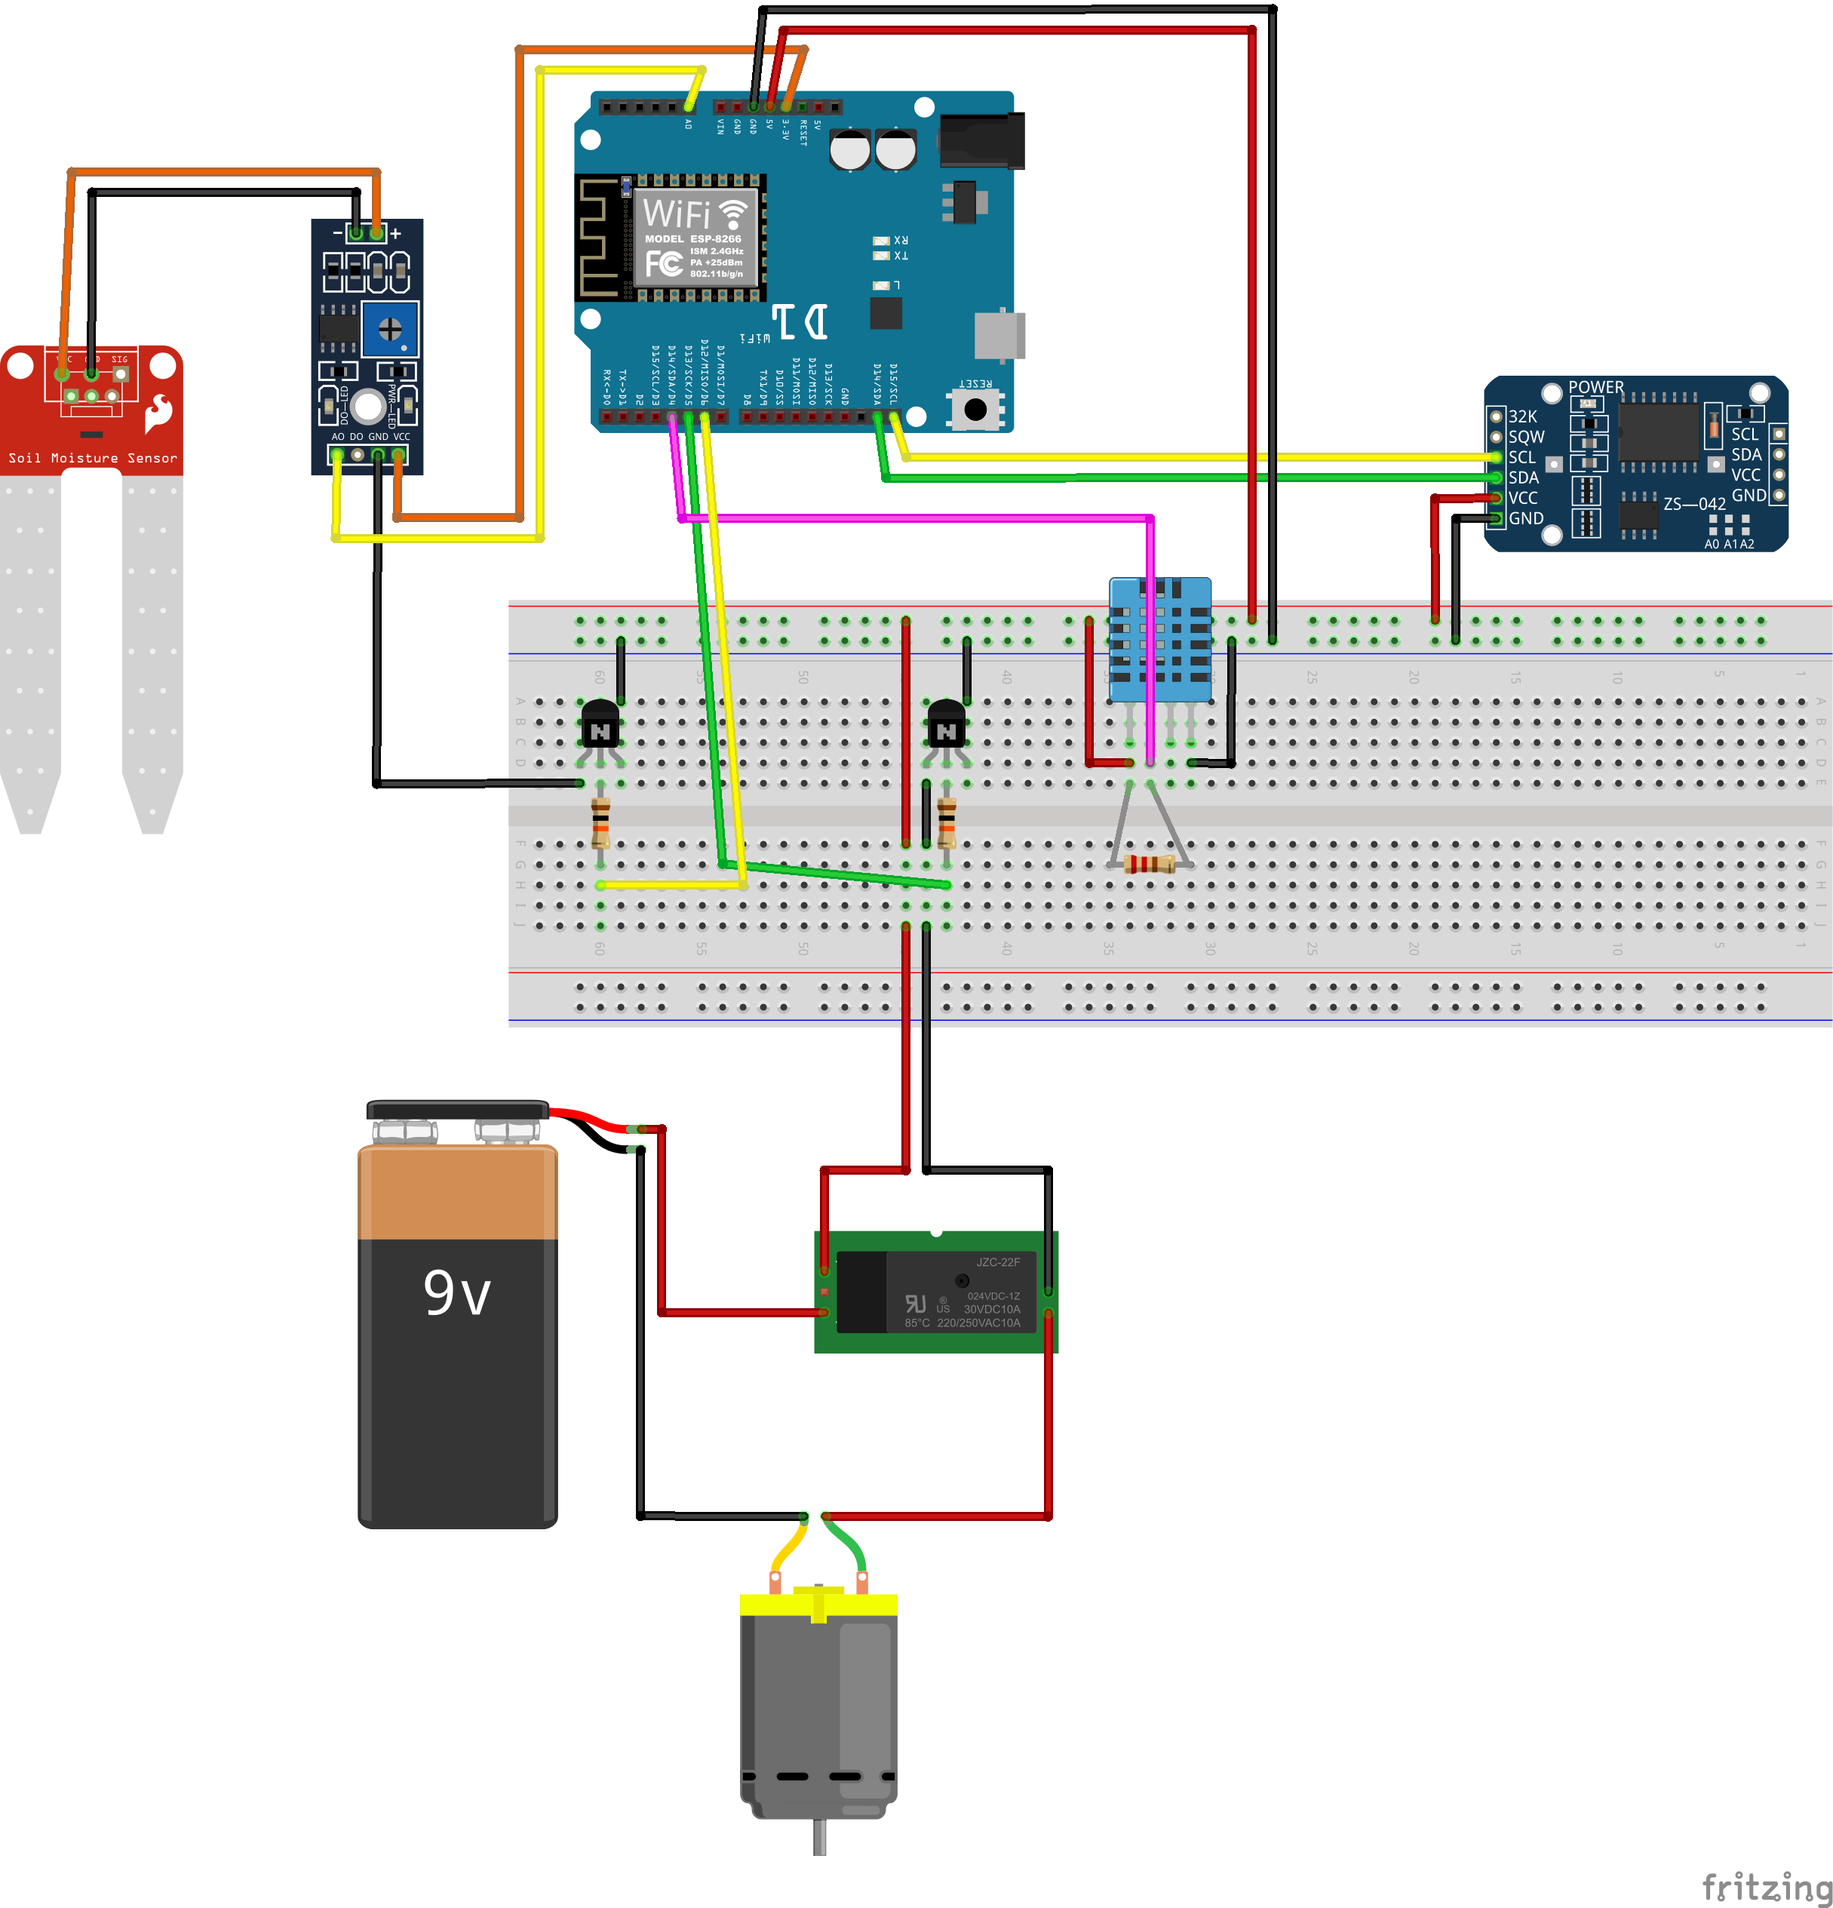
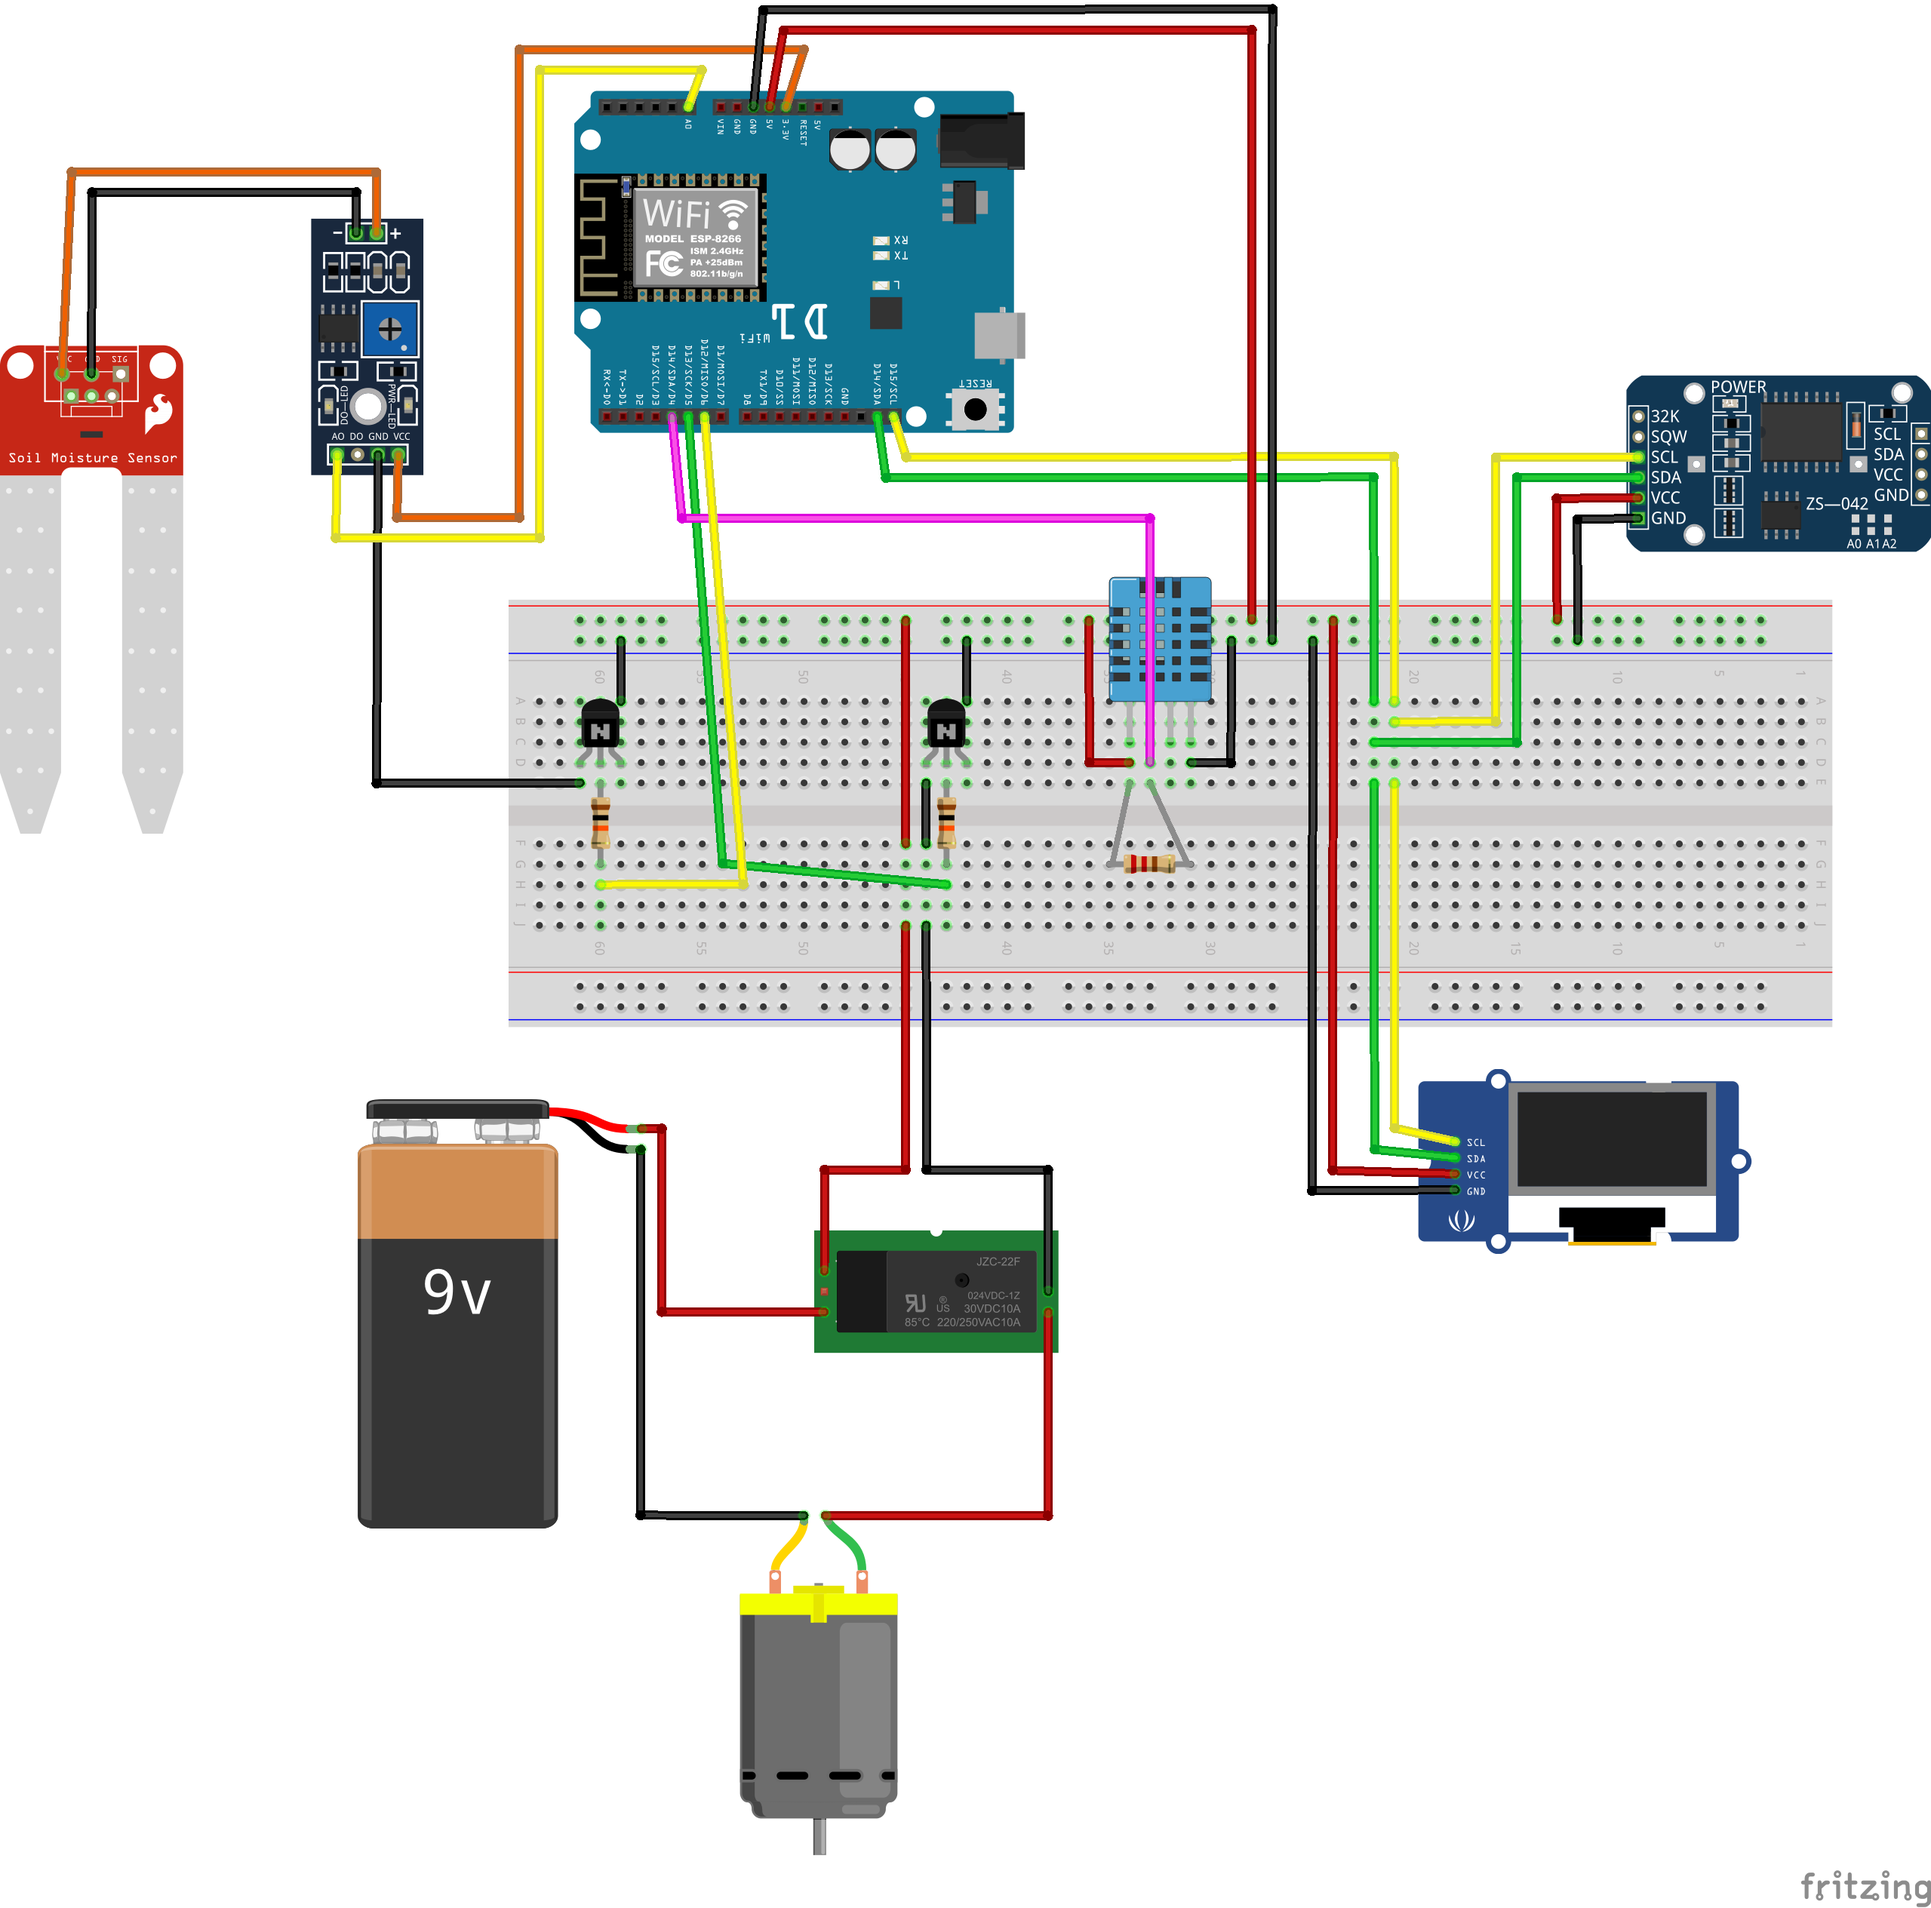
add starting measurement with MQTT command; add OLED display support; move sensor-values to separate class; refactoring

diff --git a/SensorValues.cpp b/SensorValues.cpp
@@ -1,0 +1,25 @@
+#if ARDUINO < 100
+  #include <WProgramm.h>
+#else
+  #include <Arduino.h>
+#endif
+
+#include "SensorValues.h"
+
+SensorValues::SensorValues(int temperature, int humidity, int soilMoisture) :
+  _temperature(temperature),
+  _humidity(humidity),
+  _soilMoisture(soilMoisture) {
+}
+
+int SensorValues::getTemperature() {
+  return _temperature;
+}
+
+int SensorValues::getHumidity() {
+  return _humidity;
+}
+
+int SensorValues::getSoilMoisture() {
+  return _soilMoisture;
+}

diff --git a/SensorValues.h b/SensorValues.h
@@ -1,0 +1,23 @@
+#ifndef SensorValues_h
+#define SensorValues_h
+
+#if ARDUINO < 100
+  #include <WProgramm.h>
+#else
+  #include <Arduino.h>
+#endif
+
+class SensorValues {
+  public:
+    SensorValues(int temperature, int humidity, int soilMoisture);
+    
+    int getTemperature();
+    int getHumidity();
+    int getSoilMoisture();
+    
+   private:
+    int _temperature;
+    int _humidity;
+    int _soilMoisture;
+};
+#endif
